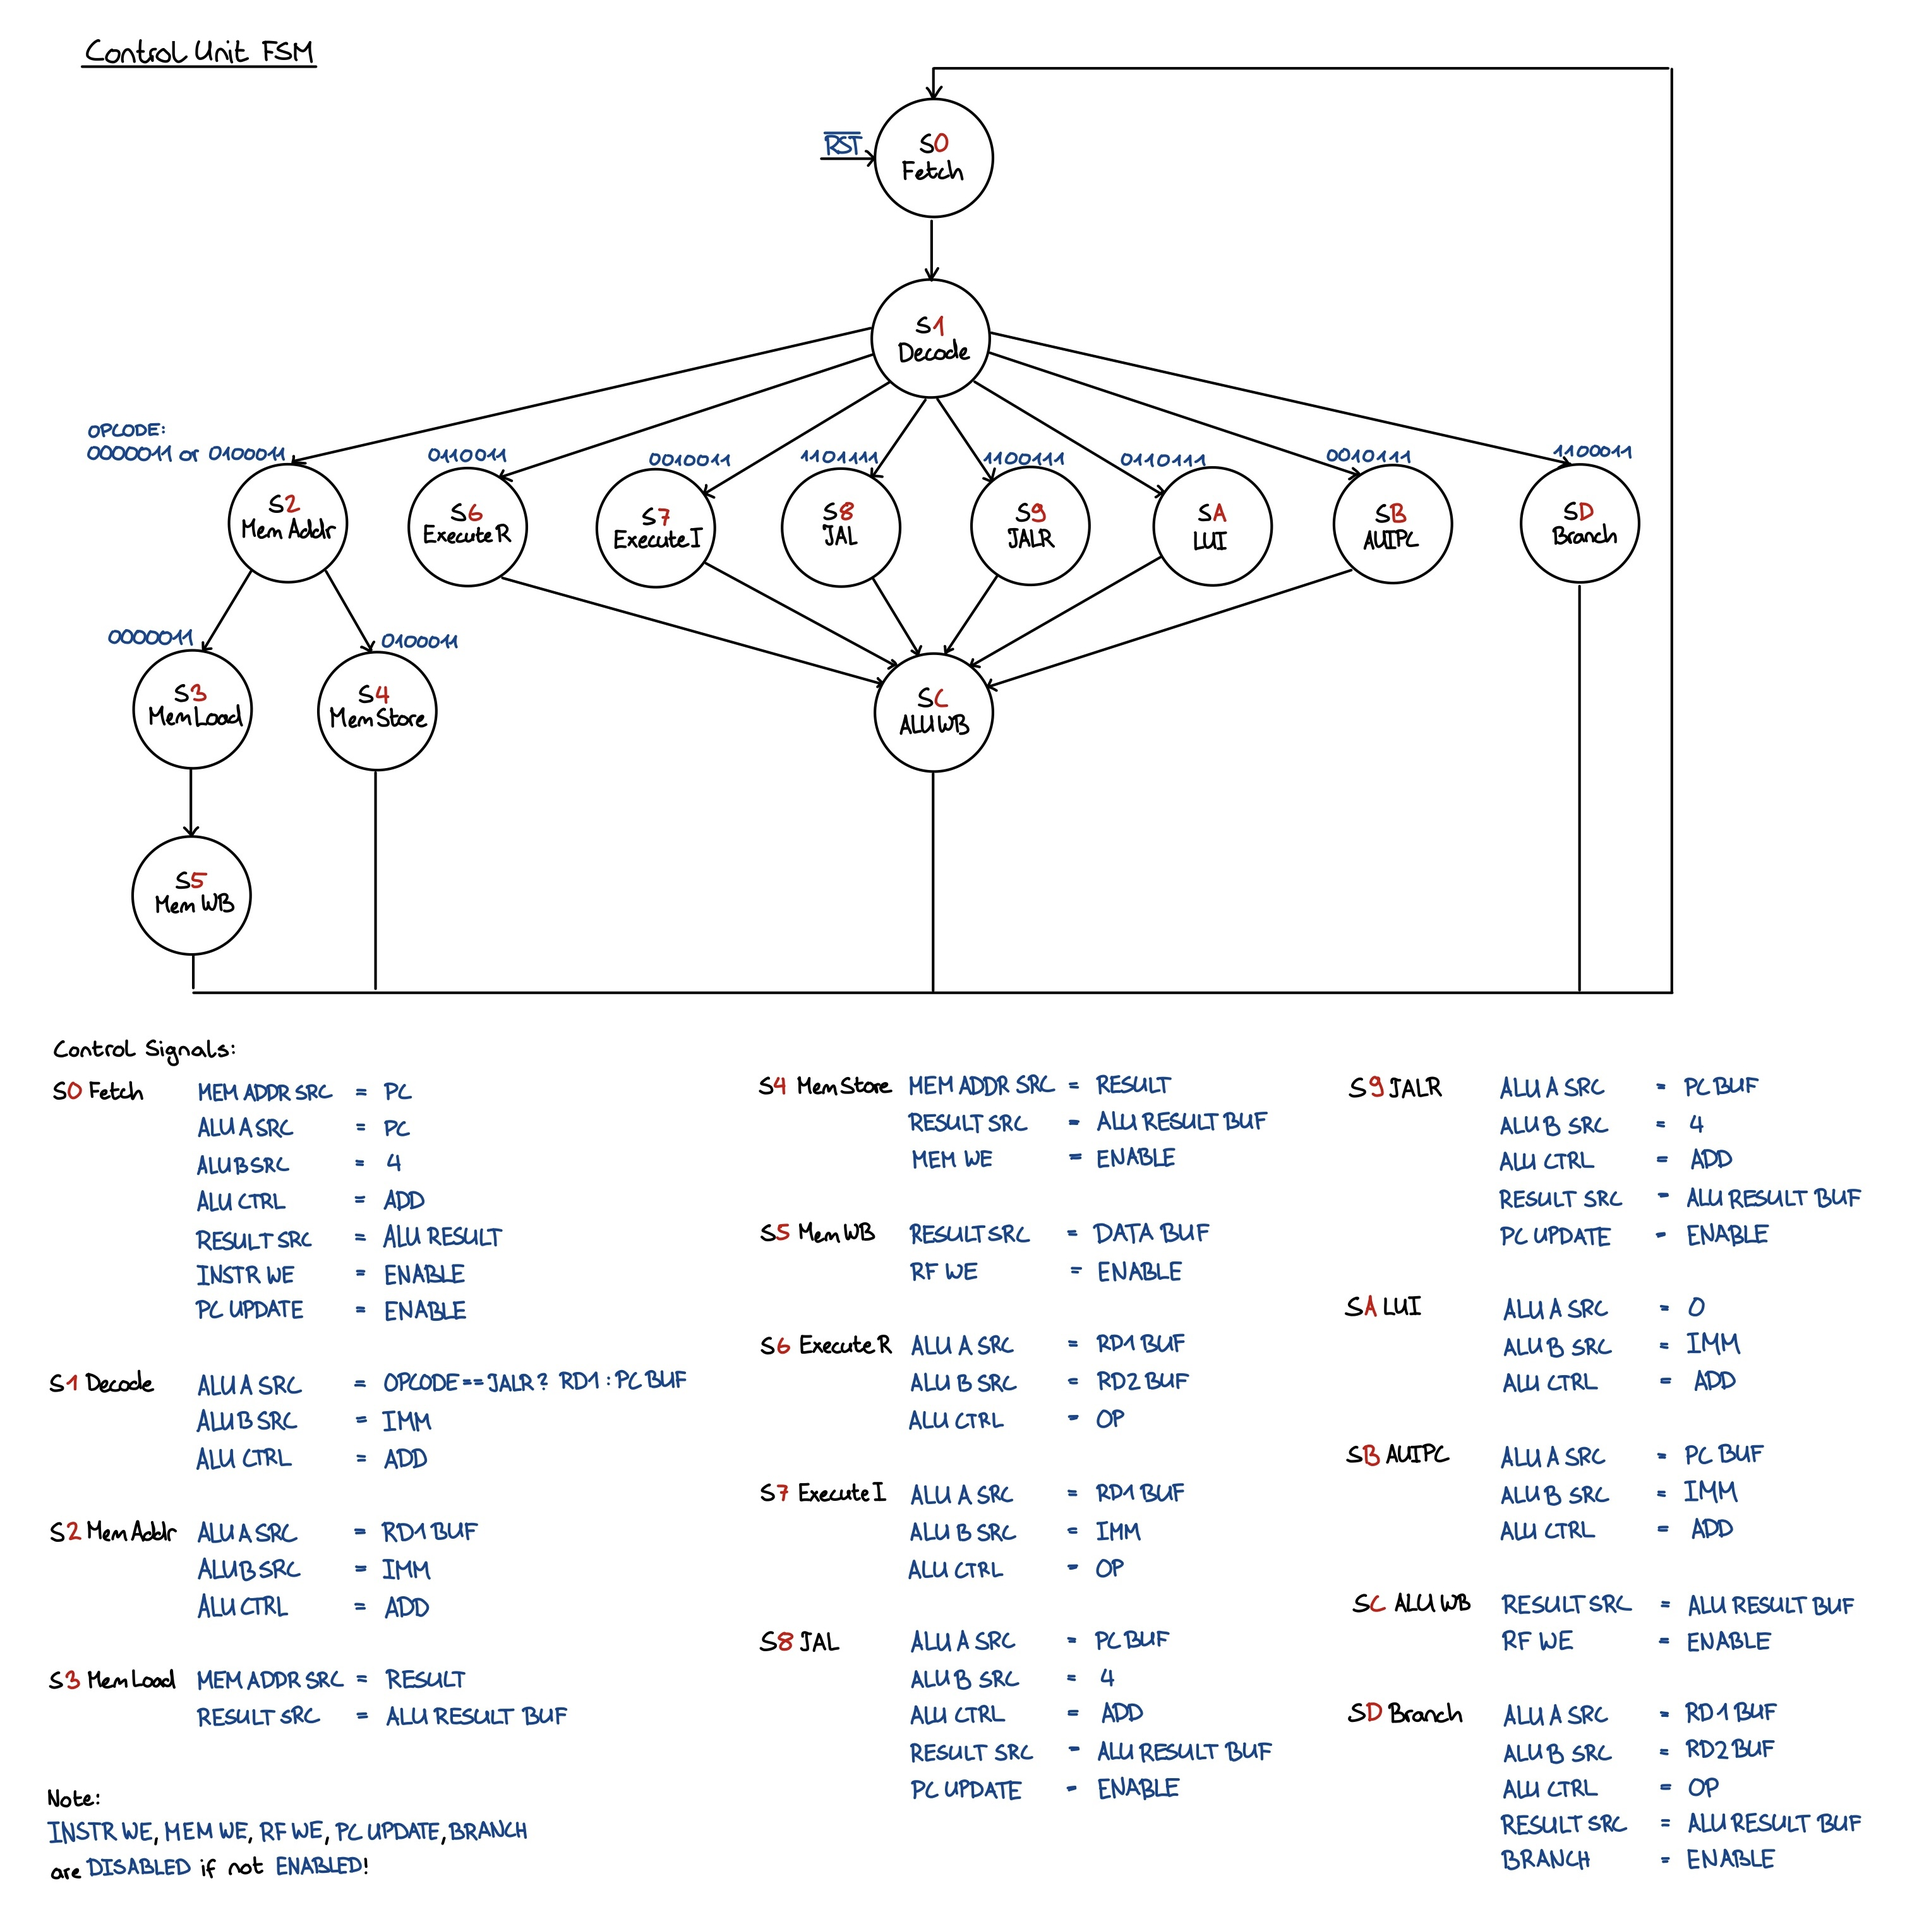
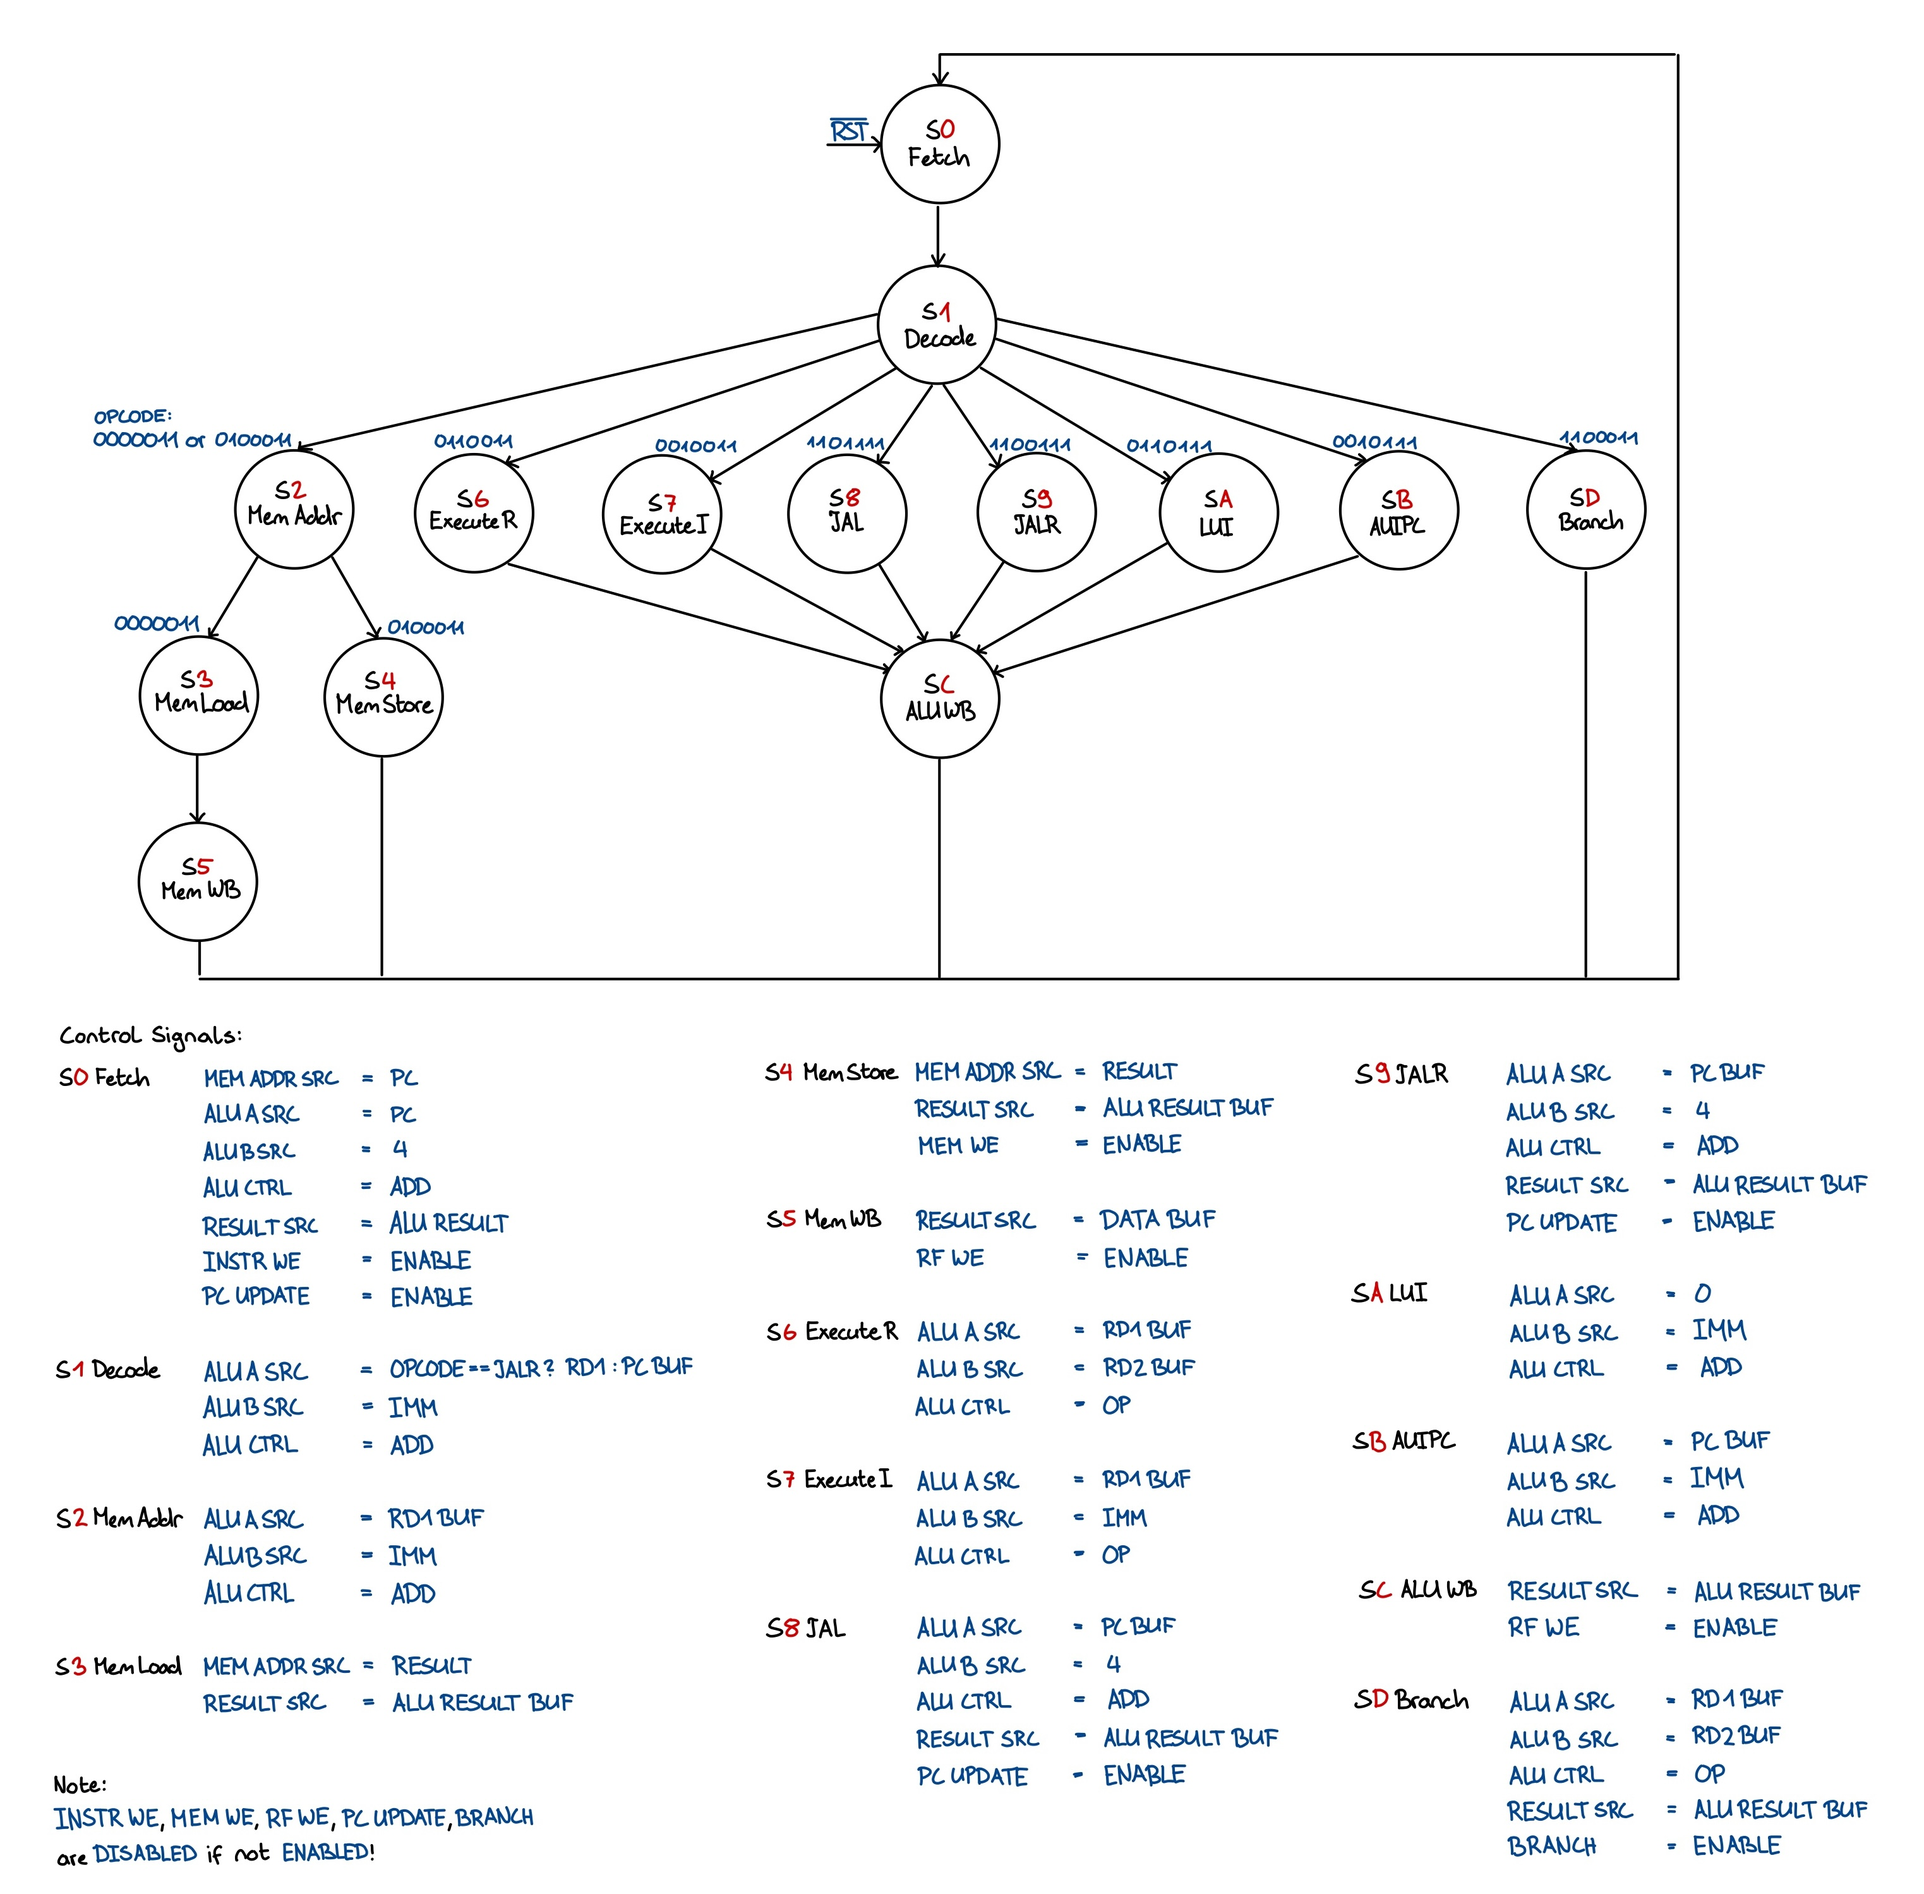
cleaned up graphics

diff --git a/README.md b/README.md
@@ -61,12 +61,19 @@ The board used in this project is a [Tang Nano 9K](https://wiki.sipeed.com/hardw
 * [Example RISCV Cores](https://github.com/yunchenlo/awesome-RISCV-Cores)
 
 ## Design
-### Microarchitecture
+
+### Microarchitecture (RISC-V multicycle rv32i without ECALL/EBREAK)
+
 ![Microarchitecture](res/microarchitecure.jpg)
+
 ### Control Unit FSM
+
 ![Control Unit FSM](res/control_unit_fsm.jpg)
+
 ### Memory Layout
+
 ![Memory Layout](res/memory_layout.jpg)
+
 ## Waveform Example
 
 Here we can see the waveforms of various internal signal of the CPU, executing the following instructions:
